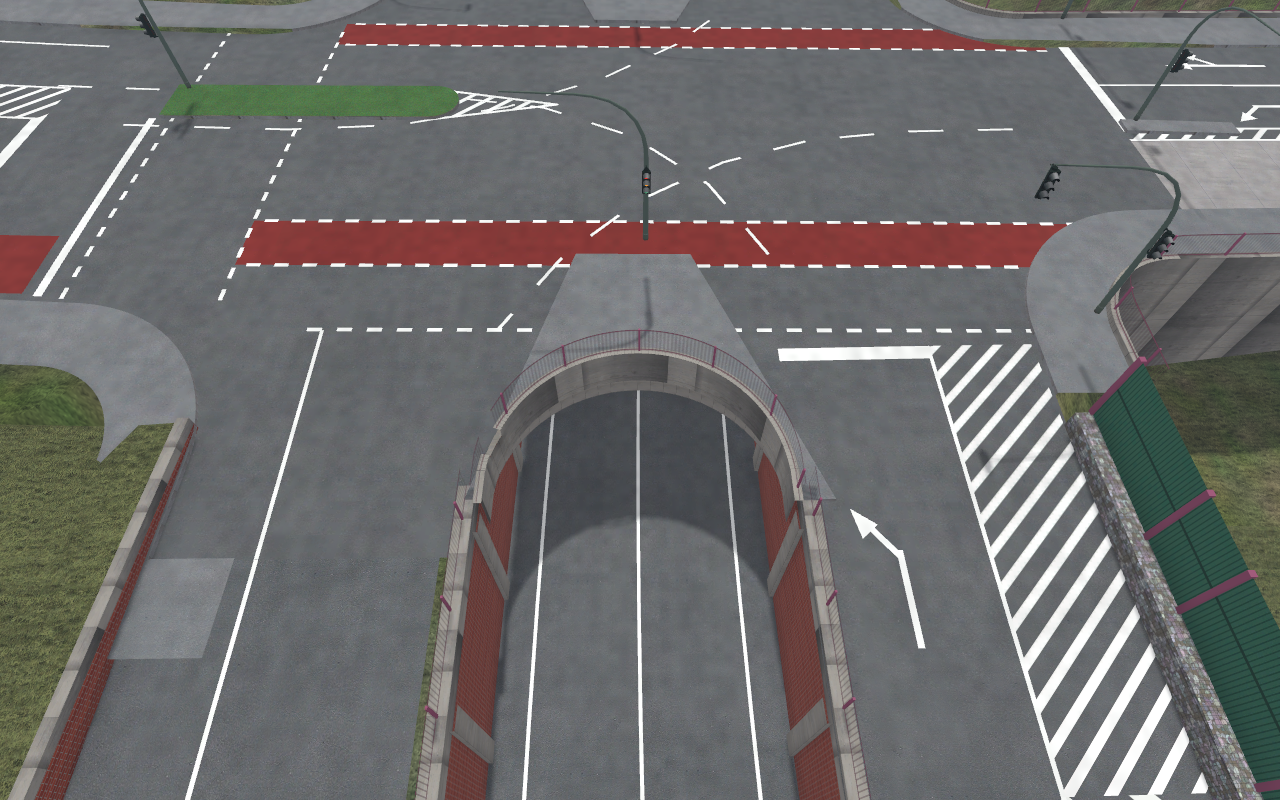
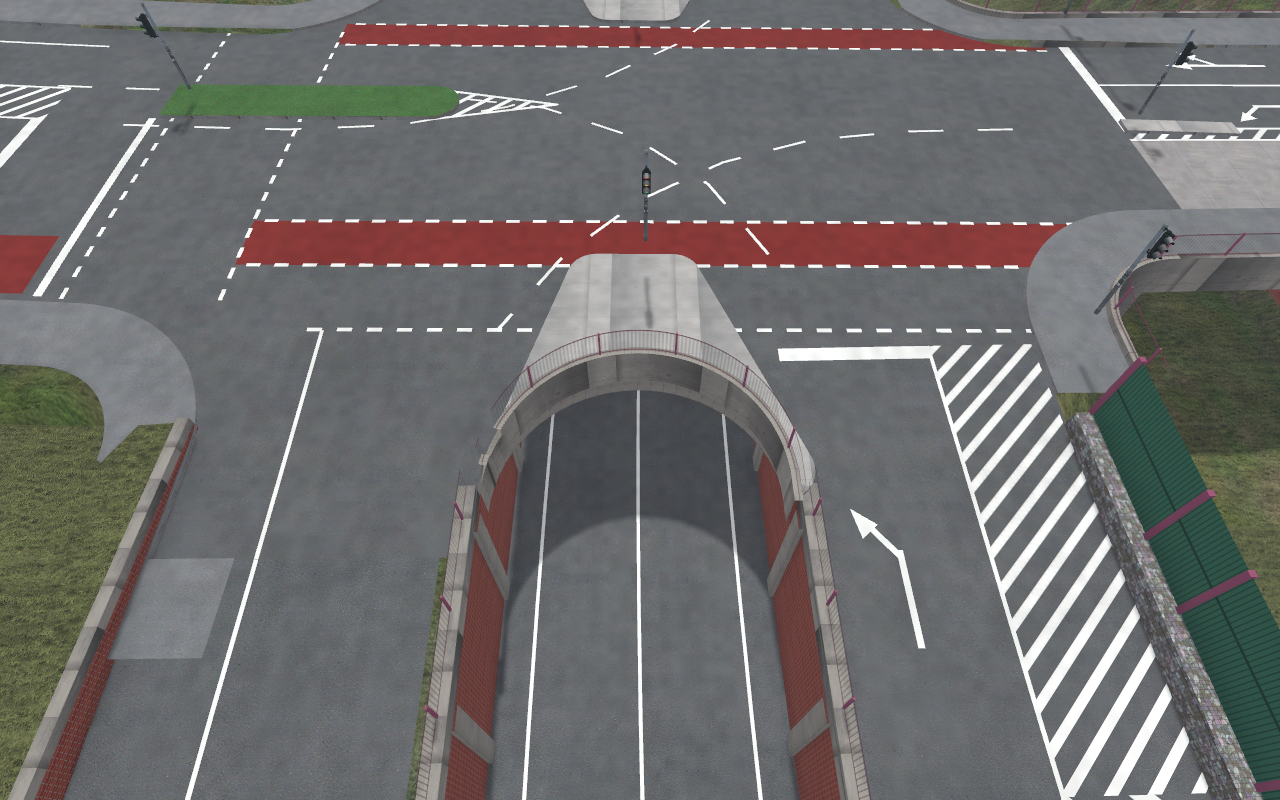
Sonderbau Ring: Ampelmasten links klein (Ausleger nur rechts an der Ludwigsallee), Bahntunnel unter der Kreuzung, Beton-Inseln an den Trogenden mit gerundeter Spitze

diff --git a/omsigen/ring_kreuzung.py b/omsigen/ring_kreuzung.py
@@ -49,6 +49,11 @@ GEHWEG_ZONEN = [box(1049.9, -261.6, 1072.6, -252.0), box(1096.0, -256.6, 1120.1,
                 box(1049.9, -281.0, 1071.6, -272.9), box(1096.2, -281.0, 1120.1, -273.3)]
 BRUESTUNG_ZONEN = [0, 2]                           # Ecken ueber dem Bahneinschnitt (NW, SW)
 GEHWEG_BREITE = 2.6
+KLEINMAST = 'Sceneryobjects\\Verkehrszeichen_MC\\Mast_Ampel_klein_1.sco'   # kleiner Ampelmast (wie in Neuendorf)
+AUSLEGER = (0, 3)                                  # Zufahrten mit Auslegermast rechts (mehrspurige Ludwigsallee)
+# Bahn unter der Ludwigsallee (DGM1: Gleise bei x 1057..1064 auf ~3,4 m): Tunnel zwischen zwei Klinkerwaenden
+BAHN_X = (1054.0, 1066.0)
+BAHN_SOHLE = 3.3
 
 
 def raender(q, nur_fahrbahn=False):
@@ -188,7 +193,8 @@ def flaechen(achse, arme, T, rampen):
                            Point(INSEL_O[0][0], (INSEL_O[0][1] + INSEL_O[1][1]) / 2).buffer((INSEL_O[1][1] - INSEL_O[0][1]) / 2, 24)])
     offen = unary_union([T['nord']['offen'], T['sued']['offen']])
     insel_w = box(INSEL_W[0][0], INSEL_W[0][1], INSEL_W[1][0], INSEL_W[1][1])
-    inseln = unary_union([Polygon(INSEL_N), Polygon(INSEL_S), insel_o, insel_w]).difference(offen)
+    rund = lambda p: p.buffer(-1.0, join_style='round').buffer(1.0, join_style='round')
+    inseln = unary_union([rund(Polygon(INSEL_N)), rund(Polygon(INSEL_S)), insel_o, insel_w]).difference(offen)
     fahrbahn = fahrbahn.difference(offen).difference(inseln)
     gehweg = fahrbahn.buffer(GEHWEG_BREITE, 32).difference(fahrbahn).difference(offen).difference(inseln)
     gehweg = unary_union([gehweg.intersection(z) for z in GEHWEG_ZONEN])
@@ -326,7 +332,7 @@ def bauen(achse, K, strassen, arme_roh, gel, verbindungen, phasen, pfeile, rampe
     flaeche('asphalt', F['fahrbahn'], ASPH_H, 4.0)
     insel_o = F['inseln'].intersection(box(INSEL_O[0][0] - 1.5, INSEL_O[0][1], INSEL_O[1][0], INSEL_O[1][1]))
     flaeche('gehweg_asphalt', F['gehweg'], WALK_H, 4.0)
-    flaeche('gehweg_asphalt', F['inseln'].difference(insel_o), WALK_H, 4.0)
+    flaeche('insel_beton', F['inseln'].difference(insel_o), WALK_H, 3.0)
     flaeche('pflanzen', insel_o, WALK_H + 0.03, 2.0)
     # Bordsteine: wo Gehweg/Insel an die Fahrbahn stoesst
     fb = F['fahrbahn'].buffer(0.05)
@@ -384,6 +390,8 @@ def bauen(achse, K, strassen, arme_roh, gel, verbindungen, phasen, pfeile, rampe
         if wo == 'aussen':
             ga, gb = (float(gel.h(np.array([q[0] + n[0]]), np.array([q[1] + n[1]]))[0]) for q in (a_, b_))
             unten_a, unten_b = min(ga, za) - 0.5, min(gb, zb) - 0.5
+            if BAHN_X[0] - 0.3 <= (a_[0] + b_[0]) / 2 <= BAHN_X[1] + 0.3:
+                unten_a, unten_b = za - 1.45, zb - 1.45              # Stirnseite des Bahntunnels
         else:
             unten_a, unten_b = za - 1.2, zb - 1.2                     # Trogrand: bis unter die Deckenkante
         hoch = 0.25                                                     # niedrige Betonkante, darauf das Stabgelaender
@@ -395,6 +403,37 @@ def bauen(achse, K, strassen, arme_roh, gel, verbindungen, phasen, pfeile, rampe
         m.quad('beton', [A(a_, 0.0, za + hoch), A(b_, 0.0, zb + hoch), A(b_, 0.25, zb + hoch), A(a_, 0.25, za + hoch)],
                [(0, 0), (L / 4, 0), (L / 4, 0.06), (0, 0.06)], (0, 0, 1))
         stabgelaender(m, A(a_, 0.12, 0), A(b_, 0.12, 0), za + hoch, zb + hoch, 1.0, u0)
+    # ---------------------------------------------------------- Bahntunnel unter der Kreuzung
+    fp = unary_union([F['fahrbahn'], F['gehweg'], F['inseln']]).buffer(0.01)
+    tunnel = fp.intersection(box(BAHN_X[0], -320.0, BAHN_X[1], -200.0))
+    tunnel_y = (tunnel.bounds[1], tunnel.bounds[3]) if not tunnel.is_empty else None
+    for c in fein_dreiecke(tunnel, 3.0):
+        m.dreieck('decke', [(x - O[0], y - O[1], float(zf(x, y)) - 1.2) for x, y in c], [(x / 4, y / 4) for x, y in c], (0, 0, -1))
+    if tunnel_y:
+        for wx, nx in ((BAHN_X[0], 1.0), (BAHN_X[1], -1.0)):
+            ys = np.arange(tunnel_y[0], tunnel_y[1] + 0.01, 2.0)
+            ys = np.append(ys, tunnel_y[1]) if ys[-1] < tunnel_y[1] - 0.05 else ys
+            for y0, y1 in zip(ys[:-1], ys[1:]):
+                z0, z1 = float(zf(wx, y0)) - 1.2, float(zf(wx, y1)) - 1.2
+                m.quad('klinker', [(wx - O[0], y0 - O[1], BAHN_SOHLE - 0.5), (wx - O[0], y1 - O[1], BAHN_SOHLE - 0.5),
+                                   (wx - O[0], y1 - O[1], z1), (wx - O[0], y0 - O[1], z0)],
+                       [(y0 / 2, BAHN_SOHLE / 1), (y1 / 2, BAHN_SOHLE), (y1 / 2, z1), (y0 / 2, z0)], (nx, 0, 0))
+        # Stirnseiten: wo die Deckenkante den Gleisbereich quert, von der Decke bis zur Oberflaeche
+        for p in _polys(tunnel):
+            c = list(p.exterior.coords)
+            for a_, b_ in zip(c[:-1], c[1:]):
+                if abs(a_[0] - b_[0]) < 0.05 and min(abs(a_[0] - BAHN_X[0]), abs(a_[0] - BAHN_X[1])) < 0.05:
+                    continue                                   # an den Waenden
+                L = math.dist(a_, b_)
+                if L < 0.05:
+                    continue
+                n = np.array([b_[1] - a_[1], a_[0] - b_[0]]) / L
+                if tunnel.contains(Point((a_[0] + b_[0]) / 2 + n[0] * 0.2, (a_[1] + b_[1]) / 2 + n[1] * 0.2)):
+                    n = -n
+                za, zb = float(zf(*a_)), float(zf(*b_))
+                m.quad('beton', [(a_[0] - O[0], a_[1] - O[1], za - 1.45), (b_[0] - O[0], b_[1] - O[1], zb - 1.45),
+                                 (b_[0] - O[0], b_[1] - O[1], zb + WALK_H), (a_[0] - O[0], a_[1] - O[1], za + WALK_H)],
+                       [(0, 0), (L / 4, 0), (L / 4, 0.4), (0, 0.4)], (n[0], n[1], 0))
     # ---------------------------------------------------------- Markierungen (2 cm ueber der Fahrbahn)
     weiss, rot, sperr, beton = [], [], [], []
     for a in arme:
@@ -529,14 +568,17 @@ def bauen(achse, K, strassen, arme_roh, gel, verbindungen, phasen, pfeile, rampe
             signale.append(dict(art='signal', datei=ampel.SIGNAL, x=float(p[0]), y=float(p[1]), hoehe=ampel.SIGNAL_HOEHE, rot=rot_, gruppe=g,
                                 z_boden=boden))
             mp = p - ampel.MAST_VERSATZ * dv
-            signale.append(dict(art='mast', datei=ampel.MAST, x=float(mp[0]), y=float(mp[1]), hoehe=ampel.MAST_HOEHE, rot=(rot_ + 180) % 360,
+            ausleger = wo == 'rechts' and ia in AUSLEGER
+            # Auslegermast (Arm ueber die Spuren, Signal oben) rechts an der Ludwigsallee, sonst kleiner Mast
+            signale.append(dict(art='mast', datei=ampel.MAST if ausleger else KLEINMAST, x=float(mp[0]), y=float(mp[1]),
+                                hoehe=ampel.MAST_HOEHE if ausleger else 0.2, rot=(rot_ + 180) % 360 if ausleger else rot_,
                                 gruppe=None, z_boden=float(zf(*mp)) + WALK_H))
-            if wo == 'rechts':
+            if ausleger:
                 signale.append(dict(art='oben', datei=ampel.OBEN, eltern=len(signale) - 1, anhang=0, rot=ampel.OBEN_DREHUNG, gruppe=g))
     erhoeht = unary_union([F['gehweg'], F['inseln']])
     lose = [s for s in signale if s['art'] in ('signal', 'mast') and not erhoeht.buffer(0.3).contains(Point(s['x'], s['y']))]
     return dict(mesh=m, O=O, pfade=pfade, regeln=regeln, ketten=ketten, plan=plan, signale=signale, flaechen=F, zf=zf, trog=T,
-                arme=arme, lose_signale=[(round(s_['x'], 1), round(s_['y'], 1), s_['art']) for s_ in lose])
+                arme=arme, tunnel=dict(x=BAHN_X, y=tunnel_y, sohle=BAHN_SOHLE), lose_signale=[(round(s_['x'], 1), round(s_['y'], 1), s_['art']) for s_ in lose])
 
 
 def sco_text(name, modell, k, alpha):

diff --git a/omsigen/sonderbau_ring.py b/omsigen/sonderbau_ring.py
@@ -39,7 +39,7 @@ TEX = {'beton': 'betonwand1.bmp', 'klinker': 'AB_klinker.bmp', 'gabionen': 'AB_g
        'decke': 'AB_beton_dunkel.bmp', 'pflanzen': 'AB_bodendecker.bmp', 'asphalt': 'str_asphdrk.bmp',
        'boden': 'AB_boden.bmp', 'weiss': 'AB_weiss.bmp', 'radfurt': 'AB_radfurt.bmp', 'sperr': 'AB_sperrflaeche.tga',
        'gehweg': 'str_gehweg02.bmp', 'bord': 'str_side1.bmp', 'busbeton': 'str_betonplatten.bmp',
-       'gehweg_asphalt': 'AB_gehweg_asphalt.bmp'}
+       'gehweg_asphalt': 'AB_gehweg_asphalt.bmp', 'insel_beton': 'AB_insel_beton.bmp'}
 
 
 # ------------------------------------------------------------------ Geometrie-Helfer
@@ -495,7 +495,7 @@ def bahnbruecke(st, gel, o, z_platte=None):
         stabgelaender(m, W(a0, bm, 0), W(a1, bm, 0), za + kante - o[2], zb + kante - o[2], 1.0, a0)
     # Widerlager: Waende von der Sohle bis unter die Platte, zur Bahn hin Klinker
     a1, zb = a1_voll, zb_alt
-    for a, sgn, z in ((a0, 1, za), (a1, -1, zb)):
+    for a, sgn, z in ((a0, 1, za),) if a0 < L else ():
         m.quad('klinker', [W(a, br, sohle - 0.5), W(a, bl, sohle - 0.5), W(a, bl, z - dicke), W(a, br, z - dicke)],
                [(0, sohle), ((bl - br) / 2, sohle), ((bl - br) / 2, z - dicke), (0, z - dicke)], N(sgn, 0, 0), beidseitig=True)
     return m, z_bei((a0 + a1) / 2)
@@ -509,6 +509,22 @@ def _spuren_quer(q, arten):
         if t['art'] in arten:
             out.append((links + x, links + x + t['breite'], t['richtung']))
         x += t['breite']
+    return out
+
+
+def tunnel_gelaende(t):
+    """Gelaendepunkte im Bahntunnel unter der Kreuzung auf Gleishoehe (das DGM zeigt dort Reste der Rampe)"""
+    out = []
+    if not t or not t['y']:
+        return out
+    (x0, x1), (y0, y1) = t['x'], t['y']
+    for kx in range(int(math.floor(x0 / 300)), int(math.floor(x1 / 300)) + 1):
+        for ky in range(int(math.floor((y0 - 5) / 300)), int(math.floor((y1 + 5) / 300)) + 1):
+            for zeile in range(61):
+                for spalte in range(61):
+                    x, y = kx * 300 + spalte * 5.0, ky * 300 + zeile * 5.0
+                    if x0 + 0.5 <= x <= x1 - 0.5 and y0 - 5 <= y <= y1 + 5:
+                        out.append([kx, ky, spalte, zeile, t['sohle'] - 0.1])
     return out
 
 
@@ -737,6 +753,9 @@ def texturen(omsi, ziel):
     p = (rng.normal(0, 18, (128, 128, 3)) + (70, 105, 55)).clip(0, 255).astype(np.uint8)
     Image.fromarray(p).save(os.path.join(ziel, TEX['pflanzen']))
     shutil.copy(os.path.join(marcel, 'str_asphdrk.bmp'), os.path.join(ziel, TEX['asphalt']))
+    # Inseln an den Trogenden: heller Beton
+    ib = np.asarray(Image.open(os.path.join(marcel, 'betonwand1.bmp')).convert('RGB'), float) * 0.55 + 95
+    Image.fromarray(ib.clip(0, 255).astype(np.uint8)).save(os.path.join(ziel, TEX['insel_beton']))
     # Gehweg-Asphalt: etwas heller als die Fahrbahn
     g = np.asarray(Image.open(os.path.join(marcel, 'str_asphdrk.bmp')).convert('RGB'), float) * 1.18 + 8
     Image.fromarray(g.clip(0, 255).astype(np.uint8)).save(os.path.join(ziel, TEX['gehweg_asphalt']))
@@ -850,7 +869,7 @@ def bauen(omsi, karte, osm_pfad, entwurf_pfad, nn0, ost0, nord0, cache):
                     ost=None if e['o'] is None else [e['o'][k] for k in ('a', 'b', 'z', 'g')], decke=bool(e['unter_decke'])) for e in roh]
     platte = unary_union([F['fahrbahn'], F['gehweg'], F['inseln']])
     out = dict(karte=karte, nn0=nn0, objekte=liste, strassen=strassen, kreuzungen=[kreuzung],
-               gelaende=gelaende(roh) + platte_gelaende(platte, kz['zf']), messung=messung, quellen=['OpenStreetMap (ODbL)', 'DGM1/DOP40 Bayerische Vermessungsverwaltung (CC BY 4.0)'])
+               gelaende=gelaende(roh) + platte_gelaende(platte, kz['zf']) + tunnel_gelaende(kz['tunnel']), messung=messung, quellen=['OpenStreetMap (ODbL)', 'DGM1/DOP40 Bayerische Vermessungsverwaltung (CC BY 4.0)'])
     with open(os.path.join(ordner, 'sonderbau_ring.json'), 'w', encoding='utf-8') as f:
         json.dump(out, f, indent=1)
     return out

diff --git a/editor/src/sonderbau.rs b/editor/src/sonderbau.rs
@@ -313,10 +313,15 @@ mod tests {
                 (DVec3::new(1080.0, -266.0, 12.0), 95.0, -6.0, 45.0, "kreuzung_west"),
                 (DVec3::new(1075.0, -262.0, 12.0), 180.0, -8.0, 35.0, "kreuzung_rampe"),
                 (DVec3::new(1057.0, -269.5, 10.5), 90.0, -75.0, 16.0, "zufahrt_west"),
+                (DVec3::new(1063.0, -269.0, 12.0), 90.0, -2.0, 14.0, "fahrer_west"),
+                (DVec3::new(1111.0, -261.0, 13.0), 270.0, -2.0, 14.0, "fahrer_ost"),
+                (DVec3::new(1076.0, -252.0, 11.5), 175.0, -2.0, 14.0, "fahrer_rampe_west"),
+                (DVec3::new(1093.0, -282.0, 11.5), 355.0, -2.0, 14.0, "fahrer_rampe_ost"),
                 (DVec3::new(1085.0, -252.0, 10.5), 180.0, -55.0, 22.0, "insel_nord"),
                 (DVec3::new(1110.0, -261.0, 11.5), 270.0, -75.0, 16.0, "zufahrt_ost"),
                 (DVec3::new(1070.0, -385.0, 6.5), 10.0, -4.0, 30.0, "sued_einfahrt"),
                 (DVec3::new(1056.0, -266.0, 6.0), 0.0, -12.0, 35.0, "bahnbruecke"),
+                (DVec3::new(1060.0, -268.0, 5.2), 2.0, -3.0, 32.0, "bahntunnel"),
             ];
             for (ziel, gier, neigung, abstand, name) in ansichten {
                 let kam = crate::kamera::Kamera { ziel, gier, neigung, abstand, fov: 60.0 };
